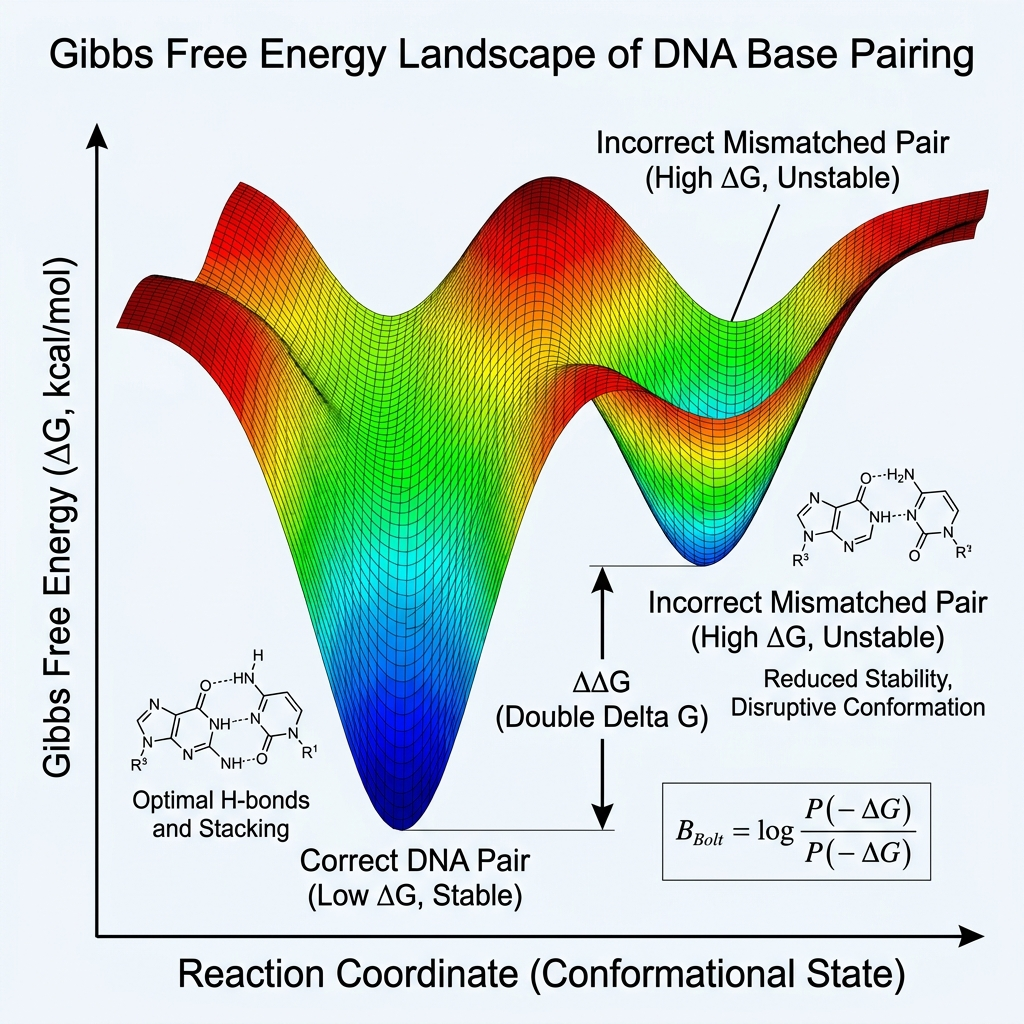
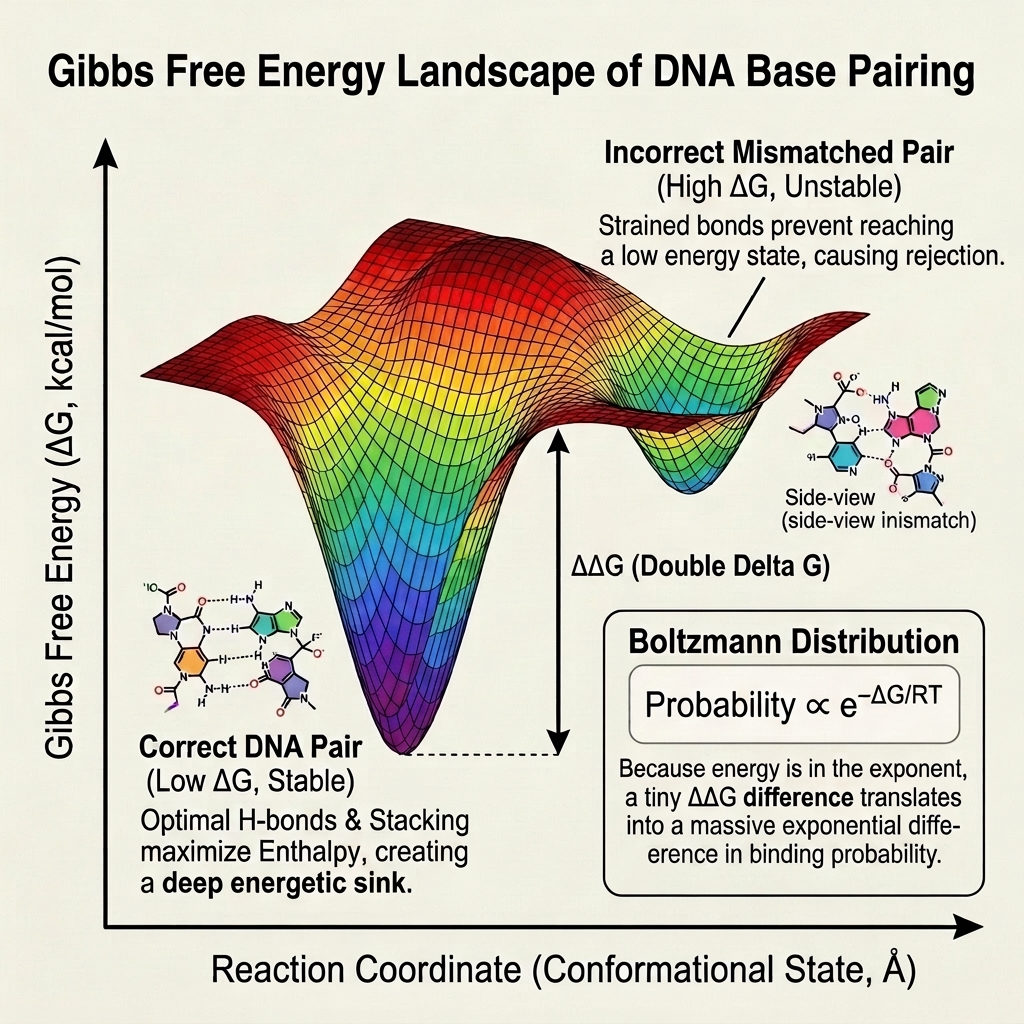
Final text edits to 3D Gibbs figure

diff --git a/Syllabus explained/Domain-1/Topic 5 The Physics of Base Pairing/index.html b/Syllabus explained/Domain-1/Topic 5 The Physics of Base Pairing/index.html
@@ -232,7 +232,7 @@
                         </div>
                         
                         <figure style="text-align: center; margin-top: 3rem;">
-                            <img src="fig_gibbs.jpg?v=4" alt="Gibbs Free Energy Landscape" style="width: 100%; border-radius: 12px; border: 1px solid rgba(255, 255, 255, 0.1);">
+                            <img src="fig_gibbs.jpg?v=6" alt="Gibbs Free Energy Landscape" style="width: 100%; border-radius: 12px; border: 1px solid rgba(255, 255, 255, 0.1);">
                             <figcaption>Figure 5.5: Gibbs Free Energy (ΔG) Energy Landscape</figcaption>
                         </figure>
                     </div>
